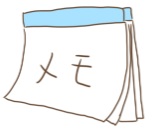
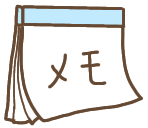
イラストを手直しした。

diff --git a/src/style.css b/src/style.css
@@ -1,21 +1,21 @@
 #RealDayClock {
   font-weight:bold;
-  font-size:90%;
+  font-size:70%;
   color:#996666;
-  background-color: white;
+  /* background-color: white; */
   position: absolute;
-  top: 133px;
-  left: 43px;
+  top: 105px;
+  left: 40px;
 }
 
 #RealtimeClockArea {
   font-weight:bold;
-  font-size:200%;
+  font-size:130%;
   color:#996666;
-  background-color: white;
+  /* background-color: white; */
 
   position: absolute;
-  top: 150px;
+  top: 120px;
   left: 60px;
 }
 
@@ -46,7 +46,7 @@
   left: 350px;
   
   width: 170px;
-  height: 200px;
+  height: 160px;
     
   overflow:hidden;
   overflow-y:auto;
@@ -64,25 +64,25 @@
 #memo {
   border-style: none;
   outline: none;
-  width :100px;
+  width :90px;
   height:auto;
 }
 
 #neko {
   border-style: none;
   outline: none;
-  width :300px;
+  width :230px;
   height:auto;
 }
 
 #tenki {
   border-style: none;
   outline: none; 
-  width :120px;
+  width :130px;
   height:auto;
   position: absolute;
-  left: 290px;
-  top: 30px;
+  left: 240px;
+  top: 10px;
 }
 
 .frontitem2 {
@@ -101,8 +101,6 @@
   left: 50px;
 }
 
-
-
 .frontitem1 {
   display: flex;
   justify-content: center;
@@ -110,17 +108,17 @@
   cursor: pointer;
 
   position: absolute;
-  top: 120px;
-  left: 260px;
+  top: 100px;
+  left: 215px;
 }
 
 
 .balloon1-left {
   position: relative;
   display: inline-block;
-  margin: 1.5em 0 1.5em 15px;
+  margin: 1.5em 0 1.5em -15px;
   padding: 7px 10px;
-  min-width: 120px;
+  min-width: 150px;
   max-width: 100%;
   color: #996666;
   font-size: 16px;
@@ -132,7 +130,7 @@
   content: "";
   position: absolute;
   top: 80px;
-  left: 350px;
+  left: 320px;
   margin-top: -15px;
   border: 15px solid transparent;
   border-right: 15px solid #fce6e6;
@@ -173,7 +171,6 @@
     text-indent: 100%;
   }
   to{
-    /* 文字数に合わせて変更 */
     text-indent: -100%;
   }
 }

diff --git a/src/script.js b/src/script.js
@@ -204,7 +204,7 @@ function showClock2() {
 }
 
 function readText() {
-    document.getElementById("news").innerHTML = "<div id='news' class='telop2' style='top: 0px; left:20px;'>天気予報！取ってきますんで！</div>";
+    document.getElementById("news").innerHTML = "<div id='news' class='telop2' style='top: 0px; left:0px;'>天気予報！取ってきますんで！</div>";
 
     // XMLHttpRequest生成
     var req = new XMLHttpRequest();
@@ -235,9 +235,6 @@ function readText() {
                     // １日分のhtmlを作成
                     html += makeDateHtml(dat.forecasts[0]) + "<br/>";
                 }
-    
-                // 詳細情報の追加
-                // html += "<div class='box'>" + dat.description.text.replace(/¥r?¥n/g, '<br/>') + "</div>";
     
                 // 作成したhtmlを流し込む
                 document.getElementById("news").innerHTML = html;

diff --git a/src/index.html b/src/index.html
@@ -4,7 +4,7 @@
     <head>
         <meta charset="UTF-8">
         <meta name="viewport" content="width=device-width, initial-scale=1.0">
-        <title>JavaScriptでメモ帳</title>
+        <title>猫と課題管理</title>
     </head>
     <body onload="showList('List')">
         <div class = "backneko" style = "-webkit-app-region: no-drag;">
